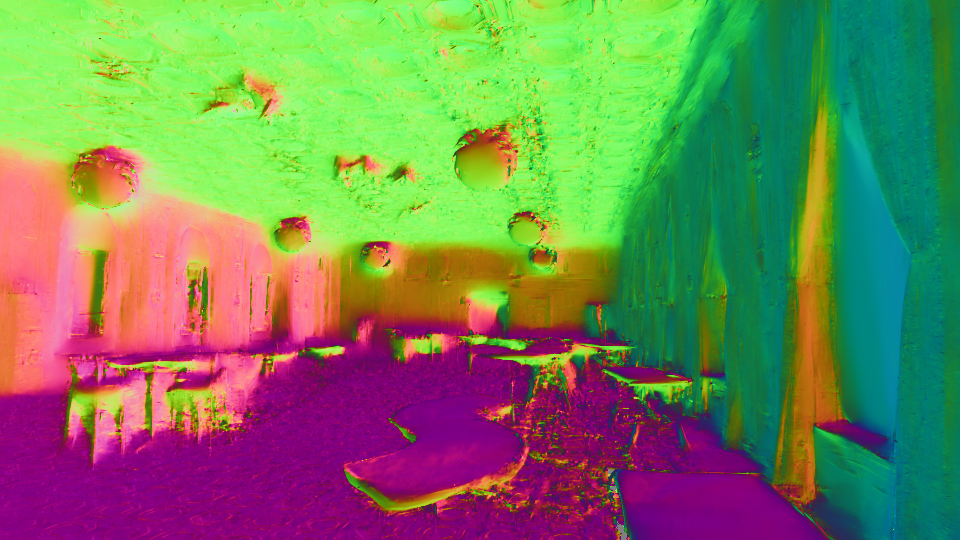
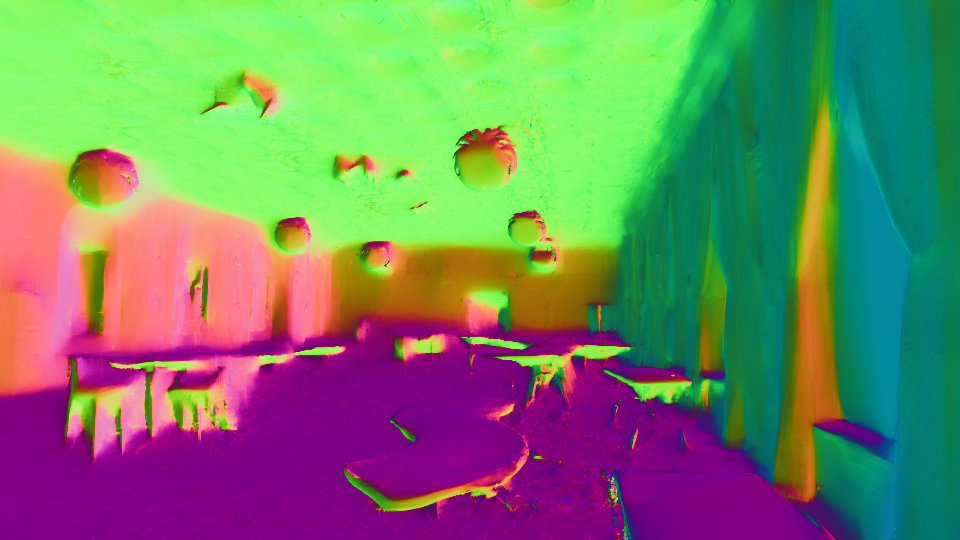
Update teaser & visual comparisons

diff --git a/index.html b/index.html
@@ -392,7 +392,7 @@
         <div class="column is-full-width">
           <h2 class="title is-3">Result</h2>
           <div class="content has-text-justified">
-            <img src="./static/images/teaser_v4.png">
+            <img src="./static/images/teaser_v5.png">
             <p>InstantSplat processes sparse-view, unposed images to reconstruct an radiance field, capturing detailed scenes rapidly without relying on SfM. Optimization occurs under self-supervision with the support of the large pretrained model, MASt3R.</p>
           </div>
           <!-- <div class="content has-text-justified">
